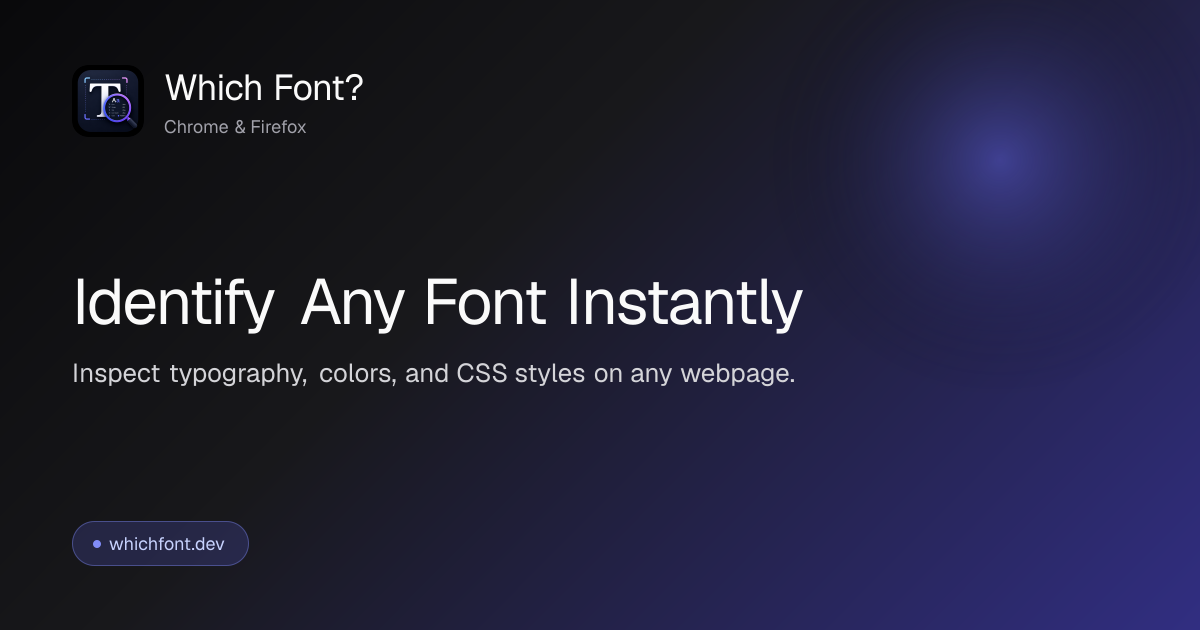
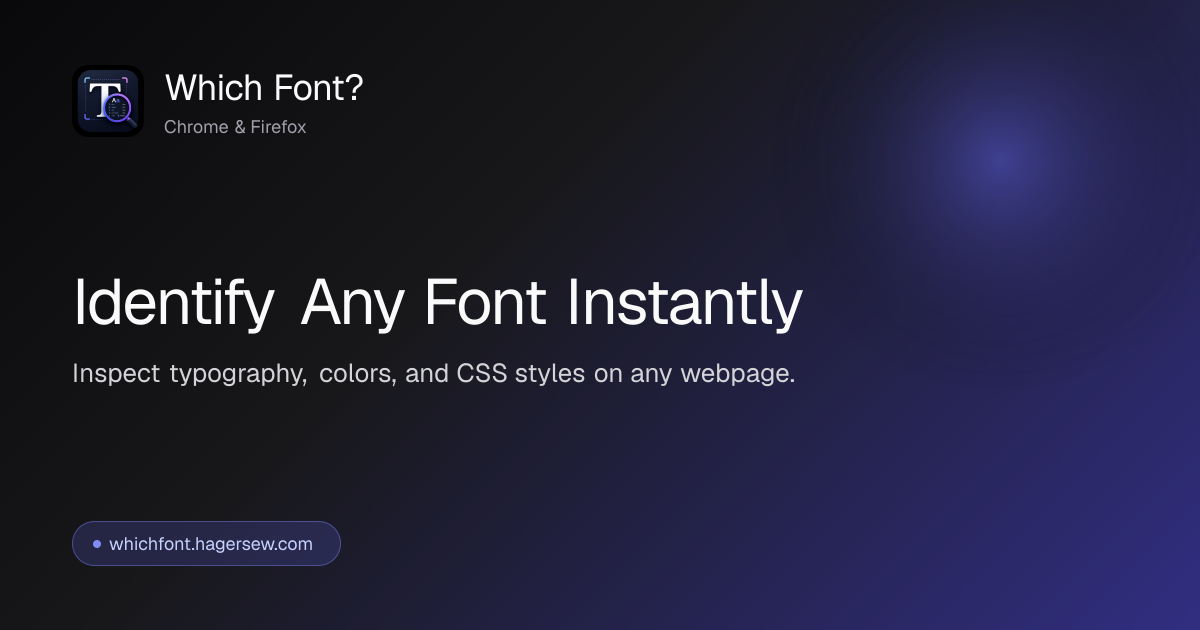
Remove deprecated AGENTS.md and CLAUDE.md files; update README.md for project clarity and add installation links; enhance layout with dynamic site URL; improve privacy policy page with extension download links; refactor header and footer to include store links; introduce StoreTextLinks component for

Changed region(s): [[0.1542, 0.8143, 0.3083, 0.9048]]

diff --git a/components/ui/StoreTextLinks.tsx b/components/ui/StoreTextLinks.tsx
@@ -1,0 +1,39 @@
+import { storeLinks } from "@/content/landing";
+import { cn } from "@/lib/cn";
+
+type StoreTextLinksProps = {
+  className?: string;
+  linkClassName?: string;
+  separator?: string;
+};
+
+export function StoreTextLinks({
+  className,
+  linkClassName,
+  separator = "·",
+}: StoreTextLinksProps) {
+  return (
+    <span className={cn("inline-flex flex-wrap items-center gap-x-2 gap-y-1", className)}>
+      {storeLinks.map((store, index) => (
+        <span key={store.id} className="inline-flex items-center gap-2">
+          {index > 0 ? (
+            <span className="text-brand-500/50" aria-hidden>
+              {separator}
+            </span>
+          ) : null}
+          <a
+            href={store.href}
+            target="_blank"
+            rel="noopener noreferrer"
+            className={cn(
+              "underline-offset-2 transition-colors hover:text-brand-300 hover:underline",
+              linkClassName,
+            )}
+          >
+            {store.label}
+          </a>
+        </span>
+      ))}
+    </span>
+  );
+}

diff --git a/components/layout/Header.tsx b/components/layout/Header.tsx
@@ -2,7 +2,7 @@
 
 import { StoreBadgeLinks } from '@/components/ui/StoreBadgeLinks';
 import { ThemeToggle } from '@/components/ui/ThemeToggle';
-import { navLinks } from '@/content/landing';
+import { installNavLinks, navLinks } from '@/content/landing';
 import { cn } from '@/lib/cn';
 import Image from 'next/image';
 import Link from 'next/link';
@@ -50,6 +50,17 @@ export function Header() {
               {link.label}
             </a>
           ))}
+          {installNavLinks.map((link) => (
+            <a
+              key={link.href}
+              href={link.href}
+              target="_blank"
+              rel="noopener noreferrer"
+              className="text-sm text-muted transition-colors hover:text-foreground"
+            >
+              {link.label}
+            </a>
+          ))}
         </nav>
 
         <div className="hidden items-center gap-3 md:flex">
@@ -77,6 +88,18 @@ export function Header() {
               <a
                 key={link.href}
                 href={link.href}
+                className="py-2 text-sm text-muted hover:text-foreground"
+                onClick={() => setMobileOpen(false)}
+              >
+                {link.label}
+              </a>
+            ))}
+            {installNavLinks.map((link) => (
+              <a
+                key={link.href}
+                href={link.href}
+                target="_blank"
+                rel="noopener noreferrer"
                 className="py-2 text-sm text-muted hover:text-foreground"
                 onClick={() => setMobileOpen(false)}
               >

diff --git a/components/sections/HeroSection.tsx b/components/sections/HeroSection.tsx
@@ -3,6 +3,7 @@
 import { HeroDemo } from '@/components/demo/HeroDemo';
 import { PrimaryButton } from '@/components/ui/PrimaryButton';
 import { StoreBadgeLinks } from '@/components/ui/StoreBadgeLinks';
+import { StoreTextLinks } from '@/components/ui/StoreTextLinks';
 import { useReducedMotion } from '@/hooks/useReducedMotion';
 import { easeOut } from '@/lib/motion';
 import { motion, useScroll, useTransform } from 'framer-motion';
@@ -45,9 +46,12 @@ export function HeroSection() {
               }}
             >
               {item.key === 'badge' && (
-                <div className="inline-flex w-fit items-center gap-2 rounded-full border border-brand-500/30 bg-brand-600/10 px-3 py-1 text-xs font-medium text-brand-400">
-                  <span className="h-1.5 w-1.5 rounded-full bg-brand-400 animate-pulse" />
-                  Available for Chrome & Firefox
+                <div className="inline-flex w-fit flex-wrap items-center gap-x-2 gap-y-1 rounded-full border border-brand-500/30 bg-brand-600/10 px-3 py-1 text-xs font-medium text-brand-400">
+                  <span className="inline-flex items-center gap-2">
+                    <span className="h-1.5 w-1.5 rounded-full bg-brand-400 animate-pulse" />
+                    Available on
+                  </span>
+                  <StoreTextLinks linkClassName="text-brand-400" />
                 </div>
               )}
               {item.key === 'heading' && (

diff --git a/app/privacy-policy/page.tsx b/app/privacy-policy/page.tsx
@@ -1,6 +1,7 @@
 import { Footer } from "@/components/layout/Footer";
 import { Header } from "@/components/layout/Header";
 import { PageBackground } from "@/components/layout/PageBackground";
+import { StoreBadgeLinks } from "@/components/ui/StoreBadgeLinks";
 import { CONTACT_EMAIL } from "@/content/landing";
 import type { Metadata } from "next";
 import Link from "next/link";
@@ -43,6 +44,13 @@ export default function PrivacyPolicyPage() {
                 We respect user privacy and are committed to keeping your
                 browsing experience secure.
               </p>
+            </div>
+
+            <div className="flex flex-col gap-6 border-t border-border-subtle pt-6">
+              <p className="text-sm font-medium text-foreground">
+                Get the extension
+              </p>
+              <StoreBadgeLinks variant="light" size="sm" />
             </div>
 
             <div className="flex flex-col gap-4 sm:flex-row sm:items-center sm:justify-between">

diff --git a/content/landing.ts b/content/landing.ts
@@ -39,6 +39,8 @@ export const storeLinks: StoreLink[] = [
   },
 ];
 
+export const SITE_URL = "https://whichfont.hagersew.com";
+
 export const GITHUB_URL = "#";
 export const HAGERSEW_URL = "https://hagersew.com";
 export const PRIVACY_URL = "/privacy-policy/";
@@ -49,6 +51,12 @@ export const navLinks = [
   { label: "Features", href: "#features" },
   { label: "Showcase", href: "#showcase" },
 ];
+
+/** Header/footer text links to extension listings. */
+export const installNavLinks = storeLinks.map((store) => ({
+  label: store.label,
+  href: store.href,
+}));
 
 export type Feature = {
   title: string;

diff --git a/components/layout/Footer.tsx b/components/layout/Footer.tsx
@@ -62,6 +62,12 @@ export function Footer() {
                 <a
                   key={link.label}
                   href={link.href}
+                  target={link.href.startsWith("http") ? "_blank" : undefined}
+                  rel={
+                    link.href.startsWith("http")
+                      ? "noopener noreferrer"
+                      : undefined
+                  }
                   className="text-sm text-muted transition-colors hover:text-foreground"
                 >
                   {link.label}

diff --git a/lib/og-image-content.tsx b/lib/og-image-content.tsx
@@ -1,3 +1,7 @@
+import { SITE_URL } from "@/content/landing";
+
+const siteHost = new URL(SITE_URL).hostname;
+
 type OgImageContentProps = {
   logoSrc: string;
 };
@@ -139,7 +143,7 @@ export function OgImageContent({ logoSrc }: OgImageContentProps) {
             }}
           />
           <span style={{ fontSize: 18, color: "#c7d2fe", fontWeight: 600 }}>
-            whichfont.dev
+            {siteHost}
           </span>
         </div>
       </div>

diff --git a/app/layout.tsx b/app/layout.tsx
@@ -1,3 +1,4 @@
+import { SITE_URL } from "@/content/landing";
 import { ogImageAlt, ogImagePath, ogImageSize } from "@/lib/og-image";
 import { ThemeInitScript } from "@/providers/ThemeInitScript";
 import { ThemeProvider } from "@/providers/ThemeProvider";
@@ -20,7 +21,7 @@ const inter = Inter({
 });
 
 export const metadata: Metadata = {
-  metadataBase: new URL("https://whichfont.dev"),
+  metadataBase: new URL(SITE_URL),
   title: "Which Font? — Identify Fonts Instantly on Any Website",
   description:
     "Inspect fonts, typography, colors, and CSS styles instantly with Which Font? — a browser extension for Chrome and Firefox, built for developers and designers.",
@@ -28,7 +29,7 @@ export const metadata: Metadata = {
     title: "Which Font? — Identify Fonts Instantly on Any Website",
     description:
       "Inspect fonts, typography, colors, and CSS styles instantly with Which Font? — a browser extension for Chrome and Firefox, built for developers and designers.",
-    url: "https://whichfont.dev",
+    url: SITE_URL,
     siteName: "Which Font?",
     locale: "en_US",
     type: "website",

diff --git a/README.md b/README.md
@@ -1,36 +1,68 @@
-This is a [Next.js](https://nextjs.org) project bootstrapped with [`create-next-app`](https://nextjs.org/docs/app/api-reference/cli/create-next-app).
+# Which Font?
 
-## Getting Started
+Static site for [Which Font?](https://whichfont.hagersew.com), a browser extension that identifies fonts, typography, colors, and CSS on any webpage. Built with Next.js and deployed as a static export.
 
-First, run the development server:
+**Live site:** [https://whichfont.hagersew.com](https://whichfont.hagersew.com)
+
+**Install:**
+
+- [Chrome Web Store](https://chromewebstore.google.com/detail/which-font/bkjnfjfgcpmiifbmlmcfljigdbmkhppl)
+- [Firefox Add-ons](https://addons.mozilla.org/en-US/firefox/addon/whichfont/)
+
+## Tech stack
+
+- [Next.js](https://nextjs.org) 16 (App Router, static export)
+- React 19
+- [Tailwind CSS](https://tailwindcss.com) 4
+- [Framer Motion](https://www.framer.com/motion/)
+
+## Getting started
 
 ```bash
+npm install
 npm run dev
-# or
-yarn dev
-# or
-pnpm dev
-# or
-bun dev
 ```
 
-Open [http://localhost:3000](http://localhost:3000) with your browser to see the result.
+Open [http://localhost:3000](http://localhost:3000).
 
-You can start editing the page by modifying `app/page.tsx`. The page auto-updates as you edit the file.
+## Scripts
 
-This project uses [`next/font`](https://nextjs.org/docs/app/building-your-application/optimizing/fonts) to automatically optimize and load [Geist](https://vercel.com/font), a new font family for Vercel.
+| Command | Description |
+|---------|-------------|
+| `npm run dev` | Start the development server |
+| `npm run build` | Generate OG image, then build static site into `out/` |
+| `npm run start` | Serve the production build (after `build`) |
+| `npm run lint` | Run ESLint |
 
-## Learn More
+`prebuild` runs `scripts/generate-og-image.tsx`, which writes `public/og.png` from the shared OG layout in `lib/og-image-content.tsx`. Metadata in `app/layout.tsx` references `/og.png` for Open Graph and Twitter cards.
 
-To learn more about Next.js, take a look at the following resources:
+## Project structure
 
-- [Next.js Documentation](https://nextjs.org/docs) - learn about Next.js features and API.
-- [Learn Next.js](https://nextjs.org/learn) - an interactive Next.js tutorial.
+```
+app/                 # Routes (home, privacy policy)
+components/
+  demo/              # Interactive product demos
+  layout/            # Header, footer, page chrome
+  sections/          # Landing page sections
+  ui/                # Shared UI primitives
+content/
+  landing.ts         # Copy, store links, feature lists
+lib/                 # OG image config, utilities
+public/              # Static assets (logo, badges, chrome-store assets)
+scripts/
+  generate-og-image.tsx
+```
 
-You can check out [the Next.js GitHub repository](https://github.com/vercel/next.js) - your feedback and contributions are welcome!
+## Editing content
 
-## Deploy on Vercel
+Most landing copy, store URLs, and feature lists live in [`content/landing.ts`](content/landing.ts). Section components under `components/sections/` compose the page; animated demos live under `components/demo/`.
 
-The easiest way to deploy your Next.js app is to use the [Vercel Platform](https://vercel.com/new?utm_medium=default-template&filter=next.js&utm_source=create-next-app&utm_campaign=create-next-app-readme) from the creators of Next.js.
+## Build & deploy
 
-Check out our [Next.js deployment documentation](https://nextjs.org/docs/app/building-your-application/deploying) for more details.
+The site is configured for static export (`output: "export"` in `next.config.ts`). `npm run build` outputs HTML and assets to `out/`.
+
+On push to `main` or `master`, [`.github/workflows/main.yml`](.github/workflows/main.yml) builds the site and deploys `out/` via FTP. Required repository secrets: `FTP_USERNAME`, `FTP_PASSWORD`.
+
+## Chrome Web Store assets
+
+Extension listing images under `public/chrome-store/` are documented in [`public/chrome-store/README.md`](public/chrome-store/README.md).